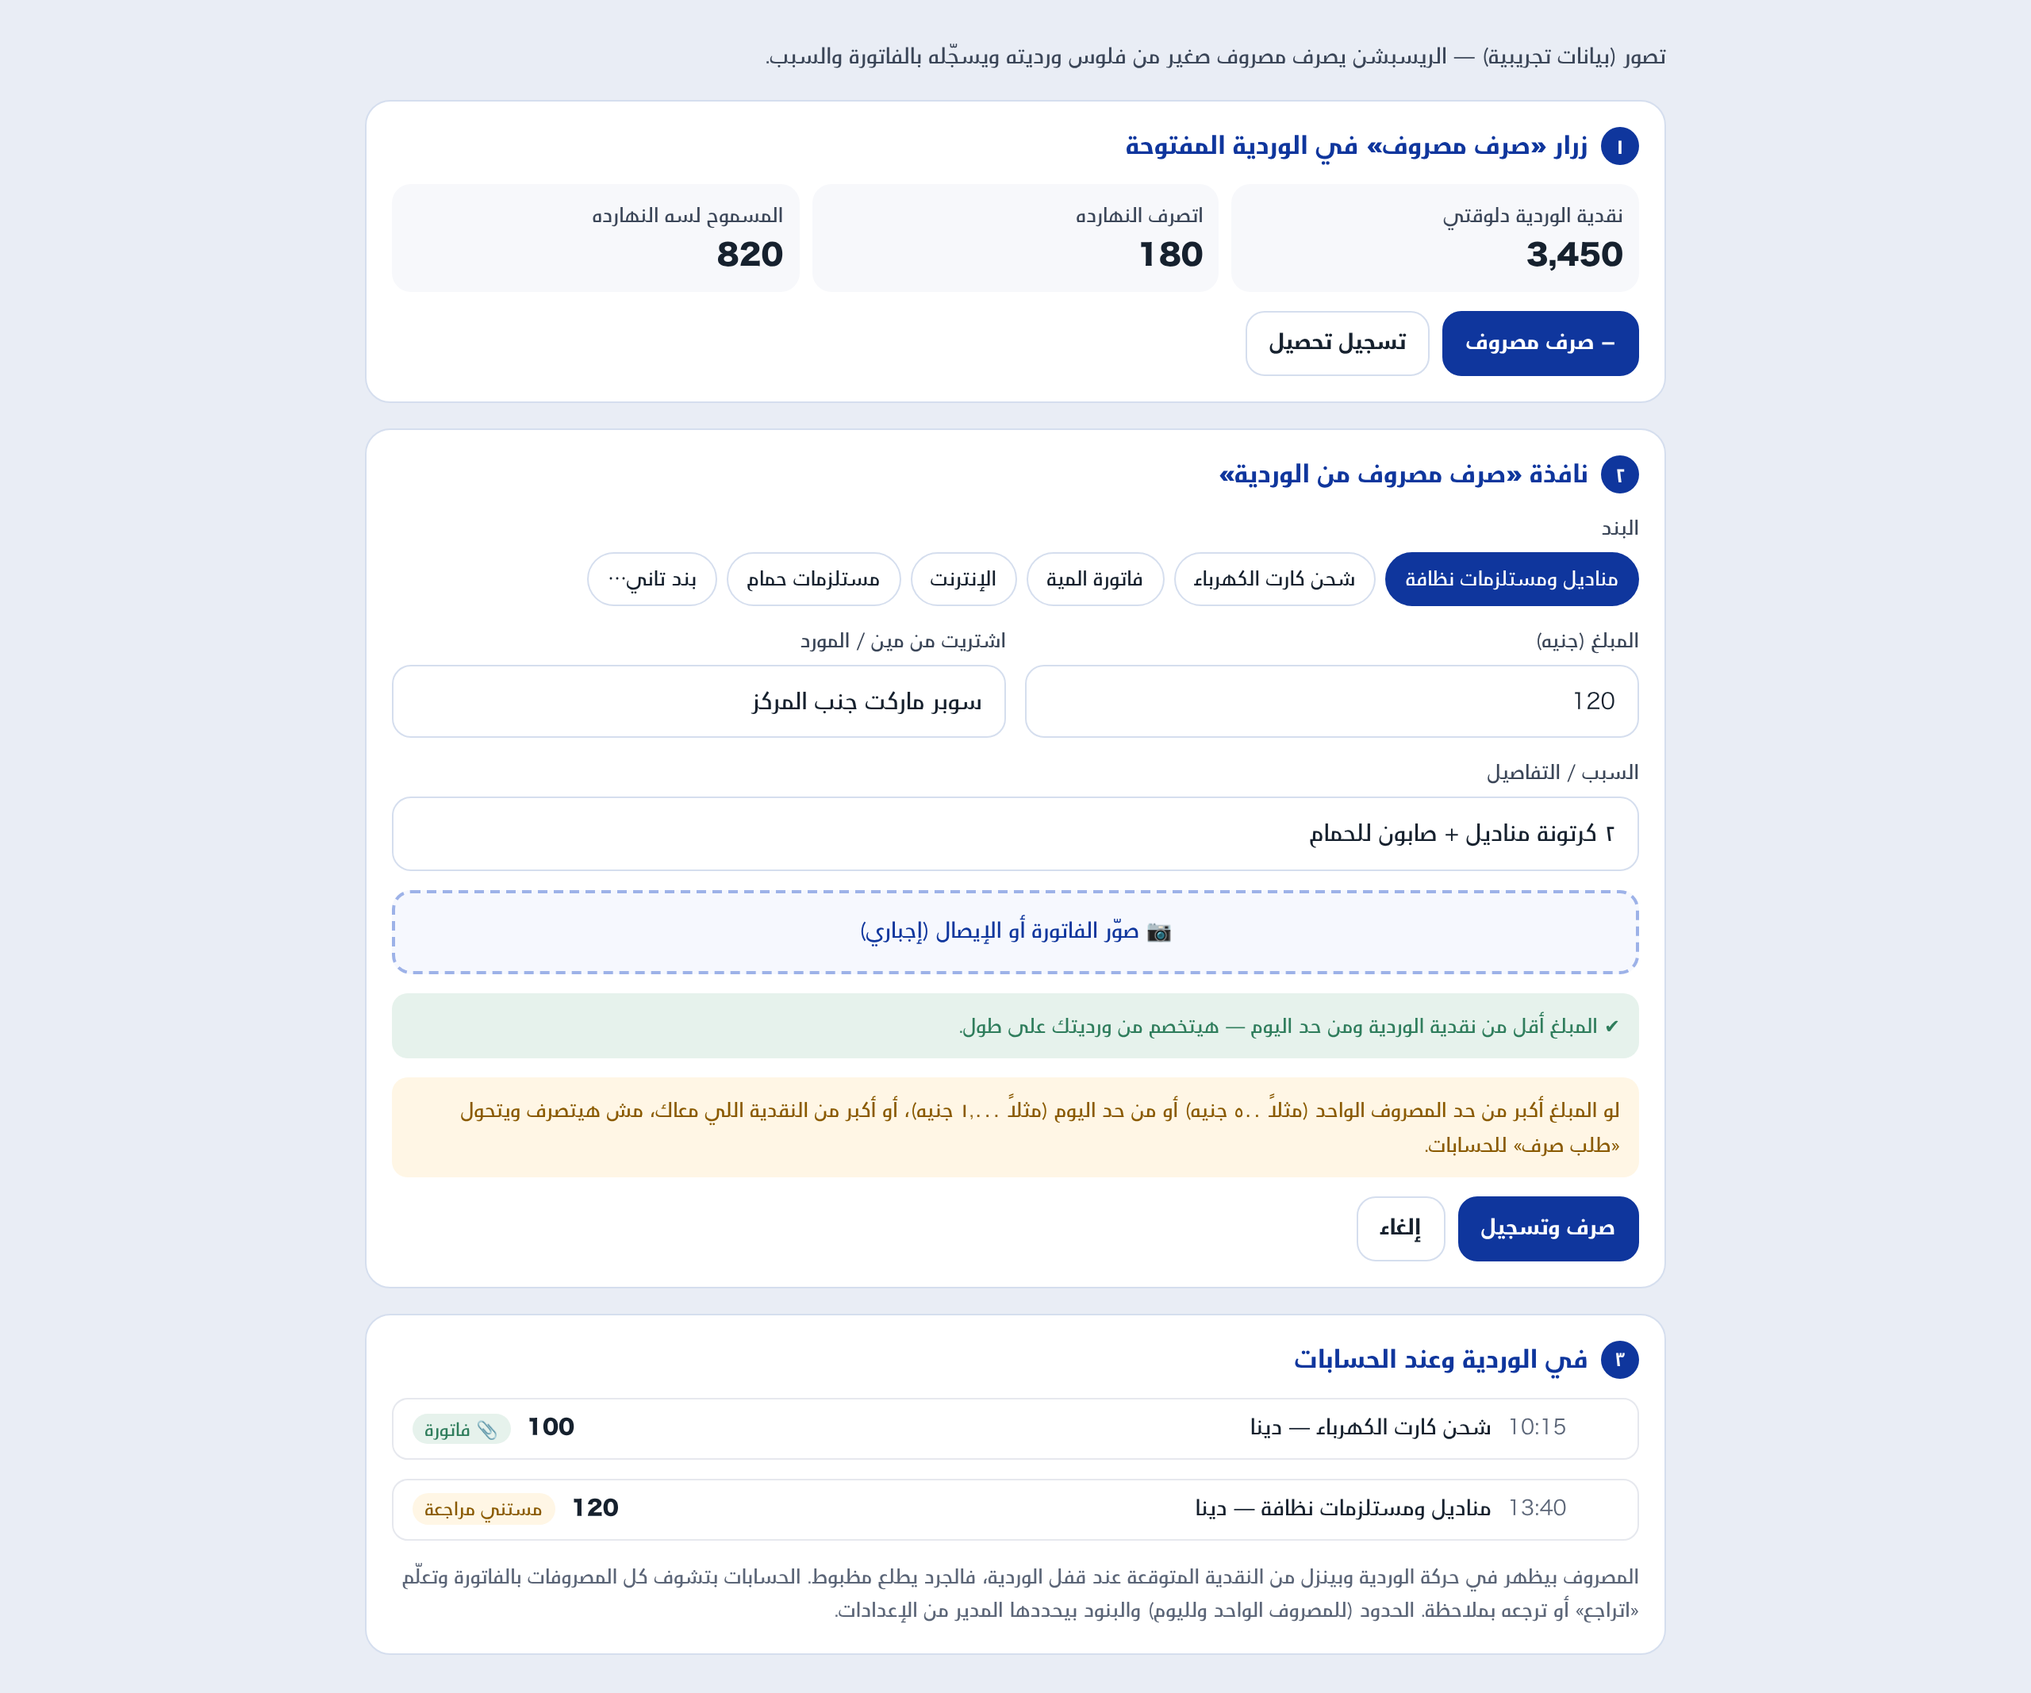
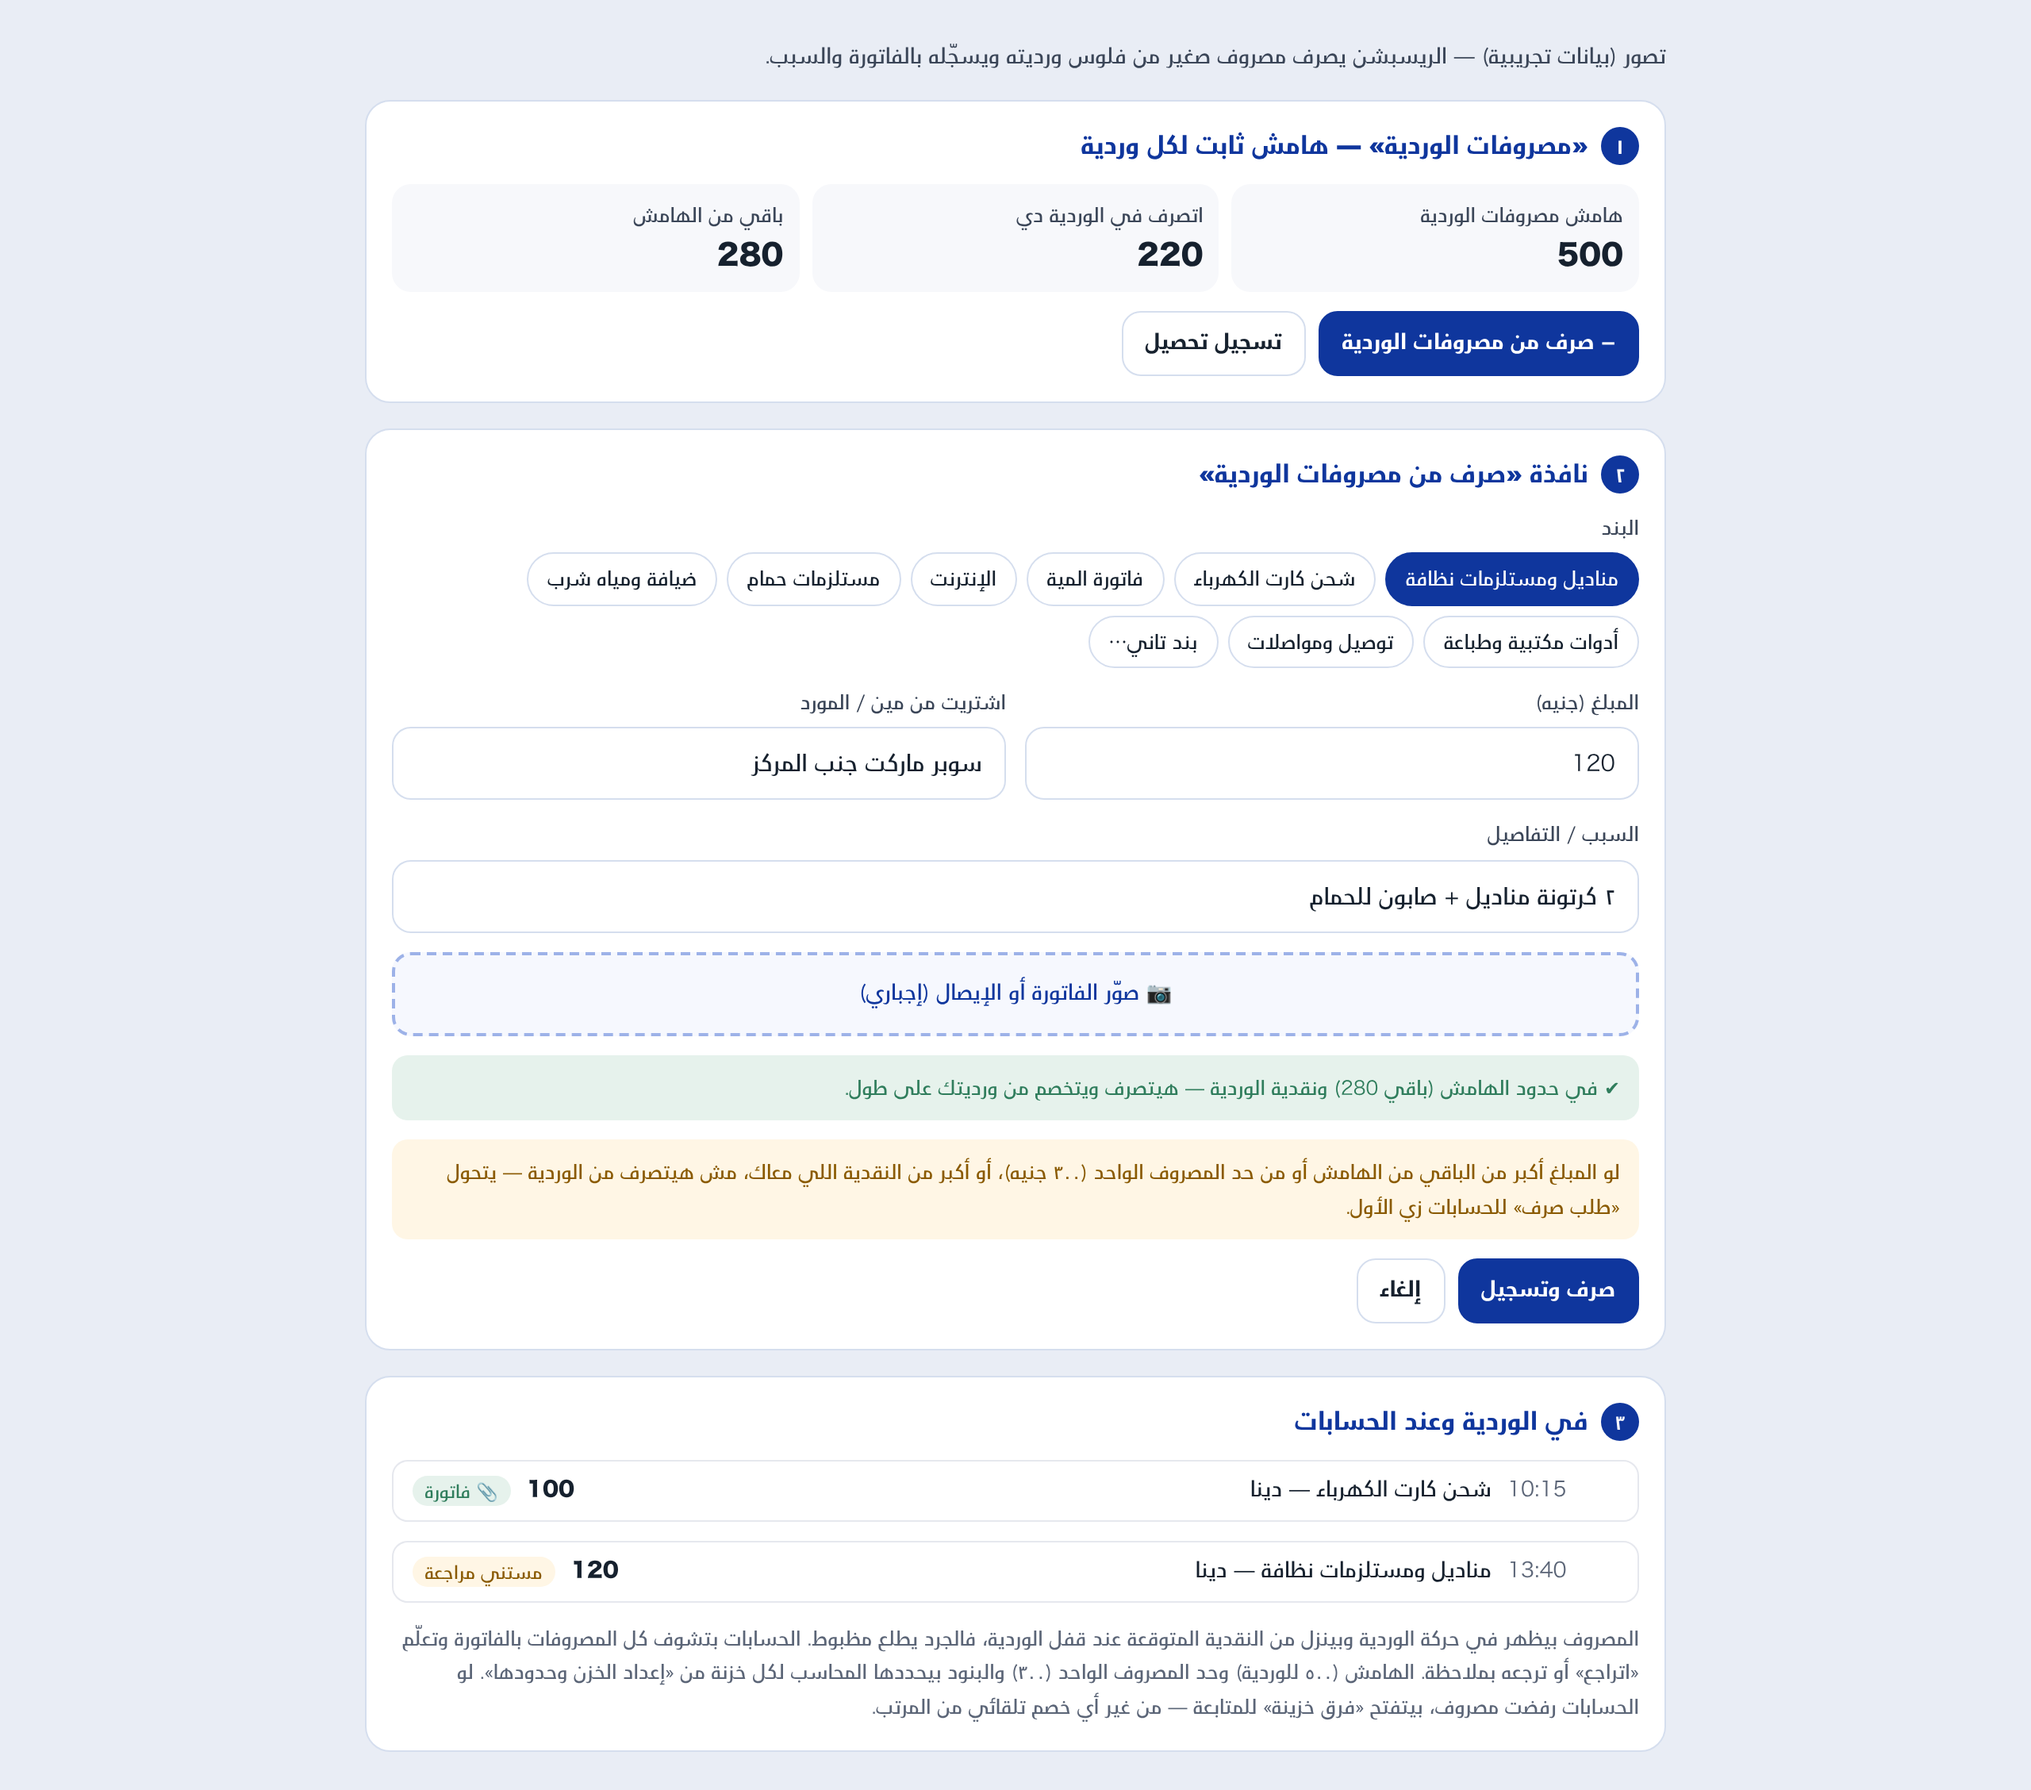
Mockup v2: «مصروفات الوردية» fixed per-shift allowance
Claude-Session: https://claude.ai/code/session_01UqVZHa1WNN8bEGUYBvTA8M

diff --git a/docs/ui-references/mockups/reception-petty-cash.html b/docs/ui-references/mockups/reception-petty-cash.html
@@ -21,24 +21,24 @@ body{background:#e9edf5;margin:0;padding:24px 12px}.wrap{max-width:820px;margin:
 </style></head><body><div class="wrap">
 <p class="cap">تصور (بيانات تجريبية) — الريسبشن يصرف مصروف صغير من فلوس ورديته ويسجّله بالفاتورة والسبب.</p>
 
-<div class="card"><h4><span class="n">١</span> زرار «صرف مصروف» في الوردية المفتوحة</h4>
- <div class="kp"><div>نقدية الوردية دلوقتي<b>3,450</b></div><div>اتصرف النهارده<b>180</b></div><div>المسموح لسه النهارده<b>820</b></div></div>
- <div class="bar"><span class="btn pri">− صرف مصروف</span><span class="btn">تسجيل تحصيل</span></div>
+<div class="card"><h4><span class="n">١</span> «مصروفات الوردية» — هامش ثابت لكل وردية</h4>
+ <div class="kp"><div>هامش مصروفات الوردية<b>500</b></div><div>اتصرف في الوردية دي<b>220</b></div><div>باقي من الهامش<b>280</b></div></div>
+ <div class="bar"><span class="btn pri">− صرف من مصروفات الوردية</span><span class="btn">تسجيل تحصيل</span></div>
 </div>
 
-<div class="card"><h4><span class="n">٢</span> نافذة «صرف مصروف من الوردية»</h4>
- <div><span class="lbl">البند</span><div class="chips"><span class="on">مناديل ومستلزمات نظافة</span><span>شحن كارت الكهرباء</span><span>فاتورة المية</span><span>الإنترنت</span><span>مستلزمات حمام</span><span>بند تاني…</span></div></div>
+<div class="card"><h4><span class="n">٢</span> نافذة «صرف من مصروفات الوردية»</h4>
+ <div><span class="lbl">البند</span><div class="chips"><span class="on">مناديل ومستلزمات نظافة</span><span>شحن كارت الكهرباء</span><span>فاتورة المية</span><span>الإنترنت</span><span>مستلزمات حمام</span><span>ضيافة ومياه شرب</span><span>أدوات مكتبية وطباعة</span><span>توصيل ومواصلات</span><span>بند تاني…</span></div></div>
  <div class="grid2"><div><span class="lbl">المبلغ (جنيه)</span><div class="inp">120</div></div><div><span class="lbl">اشتريت من مين / المورد</span><div class="inp">سوبر ماركت جنب المركز</div></div></div>
  <div><span class="lbl">السبب / التفاصيل</span><div class="inp">٢ كرتونة مناديل + صابون للحمام</div></div>
  <div class="up">📷 صوّر الفاتورة أو الإيصال (إجباري)</div>
- <div class="ok">✔ المبلغ أقل من نقدية الوردية ومن حد اليوم — هيتخصم من ورديتك على طول.</div>
- <div class="warn">لو المبلغ أكبر من حد المصروف الواحد (مثلاً ٥٠٠ جنيه) أو من حد اليوم (مثلاً ١,٠٠٠ جنيه)، أو أكبر من النقدية اللي معاك، مش هيتصرف ويتحول «طلب صرف» للحسابات.</div>
+ <div class="ok">✔ في حدود الهامش (باقي 280) ونقدية الوردية — هيتصرف ويتخصم من ورديتك على طول.</div>
+ <div class="warn">لو المبلغ أكبر من الباقي من الهامش أو من حد المصروف الواحد (٣٠٠ جنيه)، أو أكبر من النقدية اللي معاك، مش هيتصرف من الوردية — يتحول «طلب صرف» للحسابات زي الأول.</div>
  <div class="bar"><span class="btn pri">صرف وتسجيل</span><span class="btn">إلغاء</span></div>
 </div>
 
 <div class="card"><h4><span class="n">٣</span> في الوردية وعند الحسابات</h4>
  <div class="row"><time>10:15</time><span>شحن كارت الكهرباء — دينا</span><b>100</b><span class="tag">📎 فاتورة</span></div>
  <div class="row"><time>13:40</time><span>مناديل ومستلزمات نظافة — دينا</span><b>120</b><span class="tag w">مستني مراجعة</span></div>
- <p class="note">المصروف بيظهر في حركة الوردية وبينزل من النقدية المتوقعة عند قفل الوردية، فالجرد يطلع مظبوط. الحسابات بتشوف كل المصروفات بالفاتورة وتعلّم «اتراجع» أو ترجعه بملاحظة. الحدود (للمصروف الواحد ولليوم) والبنود بيحددها المدير من الإعدادات.</p>
+ <p class="note">المصروف بيظهر في حركة الوردية وبينزل من النقدية المتوقعة عند قفل الوردية، فالجرد يطلع مظبوط. الحسابات بتشوف كل المصروفات بالفاتورة وتعلّم «اتراجع» أو ترجعه بملاحظة. الهامش (٥٠٠ للوردية) وحد المصروف الواحد (٣٠٠) والبنود بيحددها المحاسب لكل خزنة من «إعداد الخزن وحدودها». لو الحسابات رفضت مصروف، بيتفتح «فرق خزينة» للمتابعة — من غير أي خصم تلقائي من المرتب.</p>
 </div>
 </div></body></html>
